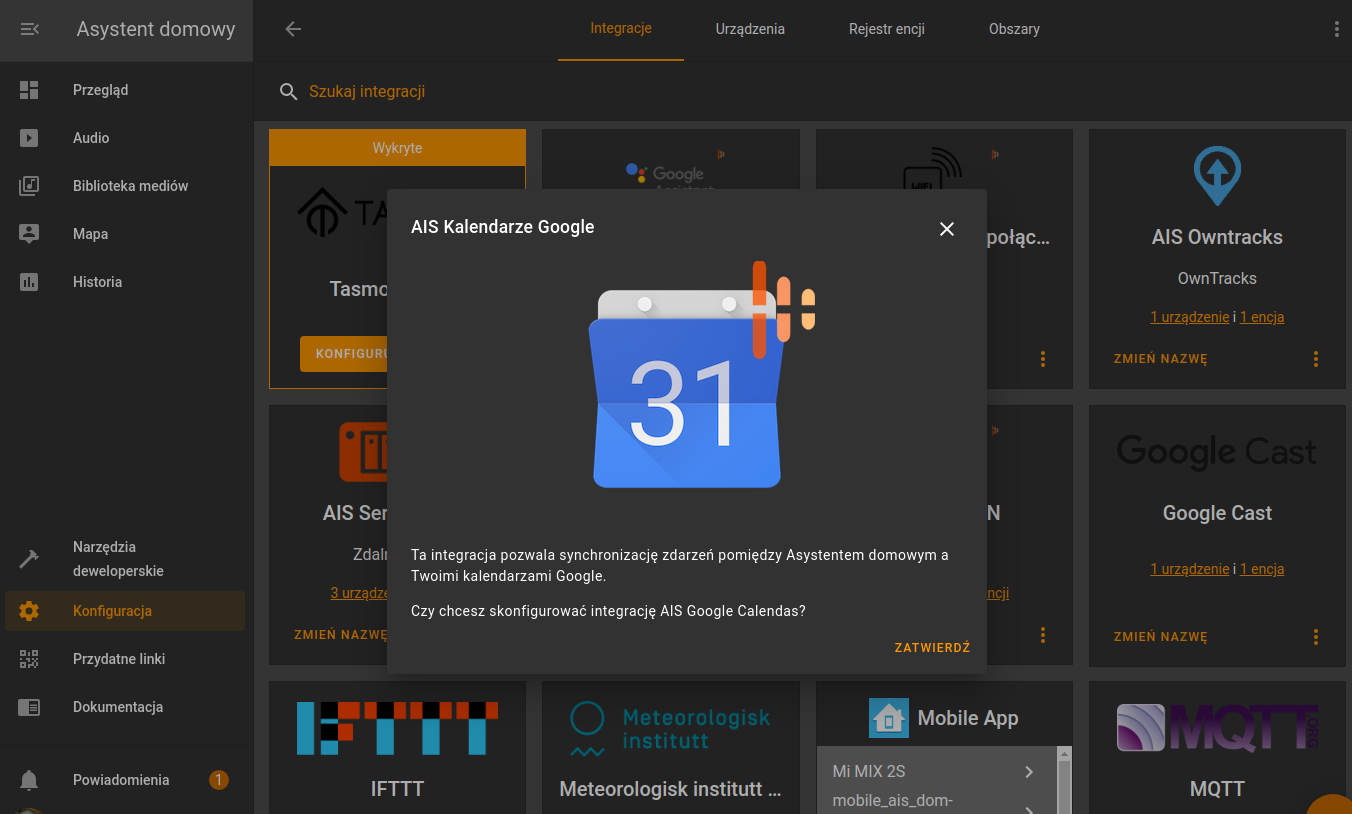
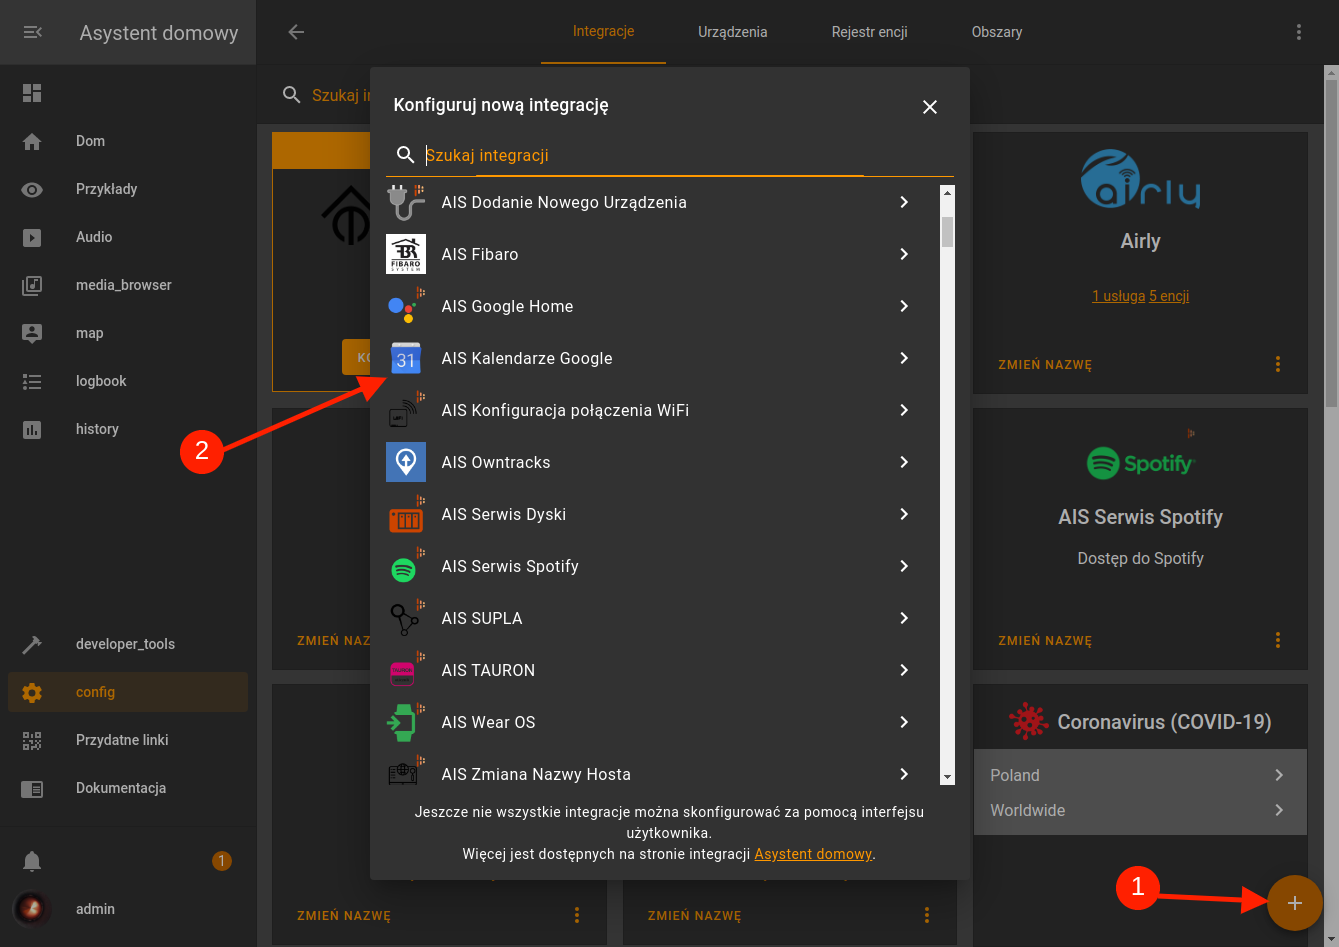
calendars more info

diff --git a/docs/ais_app_ai_integration_google_calendars.md b/docs/ais_app_ai_integration_google_calendars.md
@@ -3,13 +3,13 @@ title: "AIS Kalendarze"
 sidebar_label: AIS Kalendarze
 ---
 
-## Wprowadzenie
+# Wprowadzenie
 
 AIS Kalendarze jest to integracja Asystenta domowego z Kalendarzami.
 
 Idea jest taka, żeby można było pobierać dane o wydarzeniach występujących w czasie z różnych miejsc i agregować je w jednym miejscu na kalendarzu w aplikacji Asystent domowy. Wydarzenia do kalendarzy można dodawać za pomocą automatyzacji - po wystąpieniu zdarzeń w systemie, na podstawie zdarzeń z kalendarzy można też wyzwalać automatyzacje.
 
-### Kalendarze Google
+## Kalendarze Google
 
 Pierwszym źródłem danych do kalendarza Asystent domowy są Kalendarze Google.
 Integracja działa poprzez oficjalne [Google Calendar API](https://developers.google.com/calendar) i pozwala na wymianę zdarzeń pomiędzy Asystentem domoowym a Kalendarzami Google. 
@@ -17,16 +17,63 @@ Integracja działa poprzez oficjalne [Google Calendar API](https://developers.go
 ![AIS scan](/img/en/frontend/ais_calendars_1.png)
 
 
-#### Dodanie integracji
+### Dodanie integracji
 
 Integrację dodajamy za pomocą kreatora dostępnego w **Konfiguracja** -> **Integracje** -> **AIS Kalendarze Google**
 
 ![AIS scan](/img/en/frontend/ais_calendars_2.png)
 
 
-#### Dodanie zdarzenia do kalendarza
+
+:::caution UWAGA
+
+Integracja wymaga autoryzacji dostępu po stronie Google. **Wymgane jest wykonanie tego kroku z przeglądarki internetowej** w której otworzymy stronę Google w nowej karcie a po pomyślnej autoryzacji zamkniemy ją i wrócimy do Asystenta domowego.
+:::
+
+![AIS scan](/img/en/frontend/ais_calendars_3.png)
+
+
+Logujemy się na konto Google i udzielamy zgody na dostęp do kalendarzy dla Asystenta domowego.
+![AIS scan](/img/en/frontend/ais_calendars_4.png)
+
+
+Po otrzymaniu zgody zostaniemy automatycznie przekierowani do aplikacji Asystent domowy gdzie pojawi się integracja z kalendarzami.
+![AIS scan](/img/en/frontend/ais_calendars_5.png)
+
+### Dodanie zdarzenia do kalendarza
+
+Możesz skorzystać z usługi **google.add_event**, aby utworzyć nowe wydarzenie w kalendarzu. 
+Identyfikator Twojego podstawowego kalendarza **calendar_id** to adres email, inne identfikatory kalendarzy do których masz dostęp można znaleźć w pliku **~/AIS/google_calendars.yaml**. 
+
+![AIS scan](/img/en/frontend/ais_calendars_7.png)
+
+
+Oczywiście akcję dodania zdarzenia do kalendarza można wywołać z automatyzacji i np. zaznaczyć w kalendarzu czas rozpoczęcia sezonu grzewczego którego definicja znajduje się w par. 2 pkt. 20 rozporządzenia Ministra Gospodarki z dnia 15 stycznia 2007 r. w sprawie szczegółowych warunków funkcjonowania systemów ciepłowniczych.
 
 
 
-#### Uruchomienie automatyzacji na podstawie zdarzenia z kalendarza
+### Uruchomienie automatyzacji na podstawie zdarzenia z kalendarza
+
+
+Kalendarze dostępne są też w encjach systemu jako czujniki binarne z atrybutami. Możemy je zobaczyć, jeśli klikniemy w **Narzędzia deweloperskie** na pasku bocznym i przejdziemy do zakładki **STANY**, a następnie wyszukamy encje ``calendar.``
+
+![AIS scan](/img/en/frontend/ais_calendars_8.png)
+
+Gdy zdarzenie z kalendarza jest aktywne to status sensora ma wartość **on** a w jego atrybutach widzimy opis zdarzenia.
+Dzięki temu Kalendarza można używać jako zewnętrznego harmonogramu wydarzeń uruchamiających automatyzację, zamiast kodowania wyzwalaczy automatyzacji "na stałe" w automatyzacjach.
+
+
+> TODO Pokażemy to na przykładzie Automatyzacja wyzwalana zdarzeniem z kalendarza.
+
+
+### Rozwiązywania problemów
+
+#### Zablokowanie dostępu do integracji w Google
+
+
+https://myaccount.google.com/permissions
+
+
+![AIS scan](/img/en/frontend/ais_calendars_6.png)
+
 
